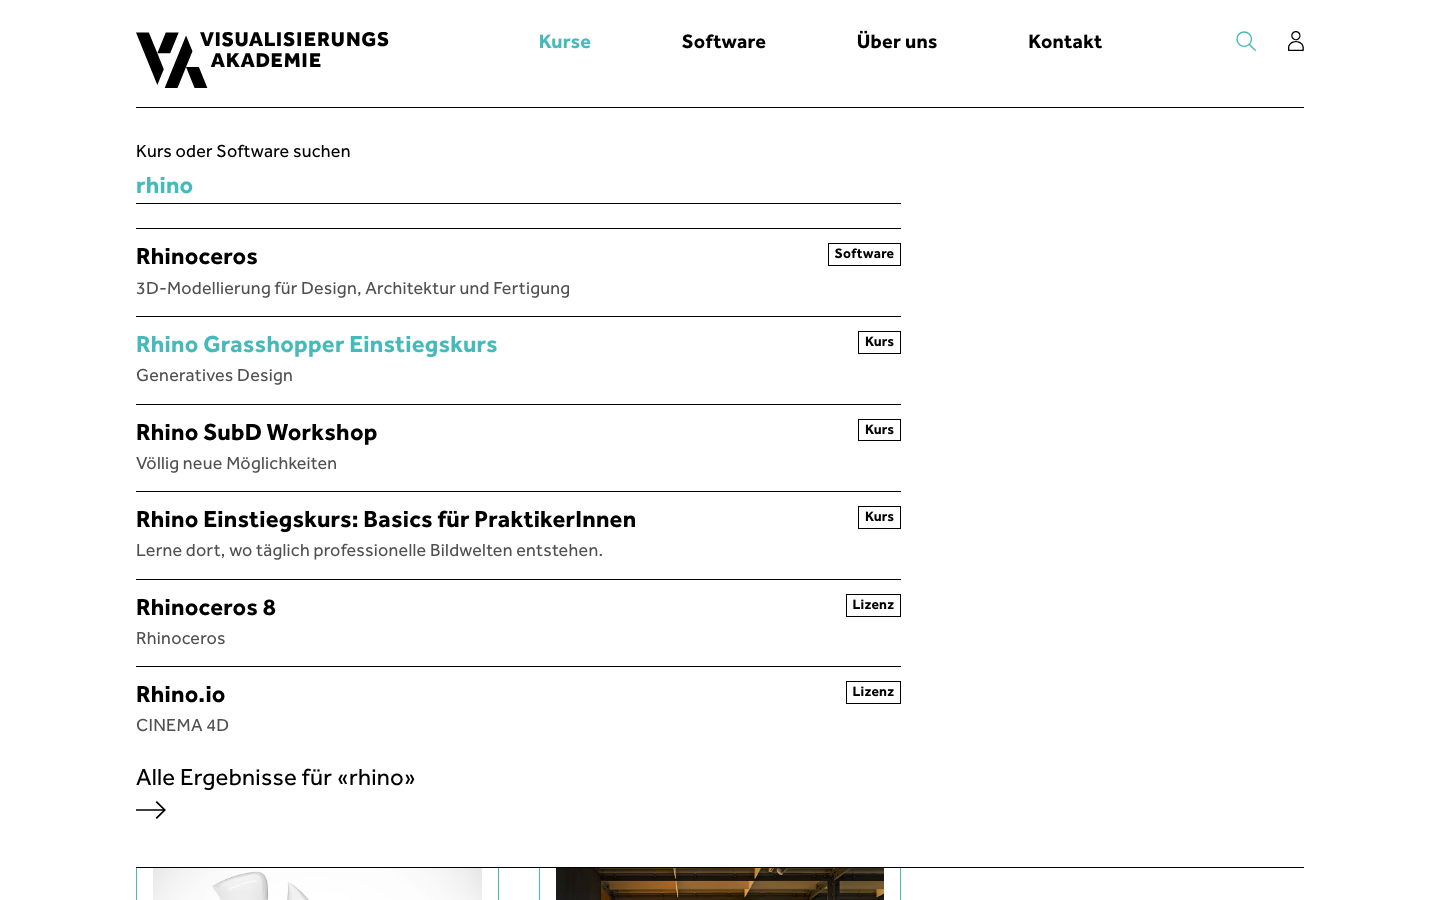
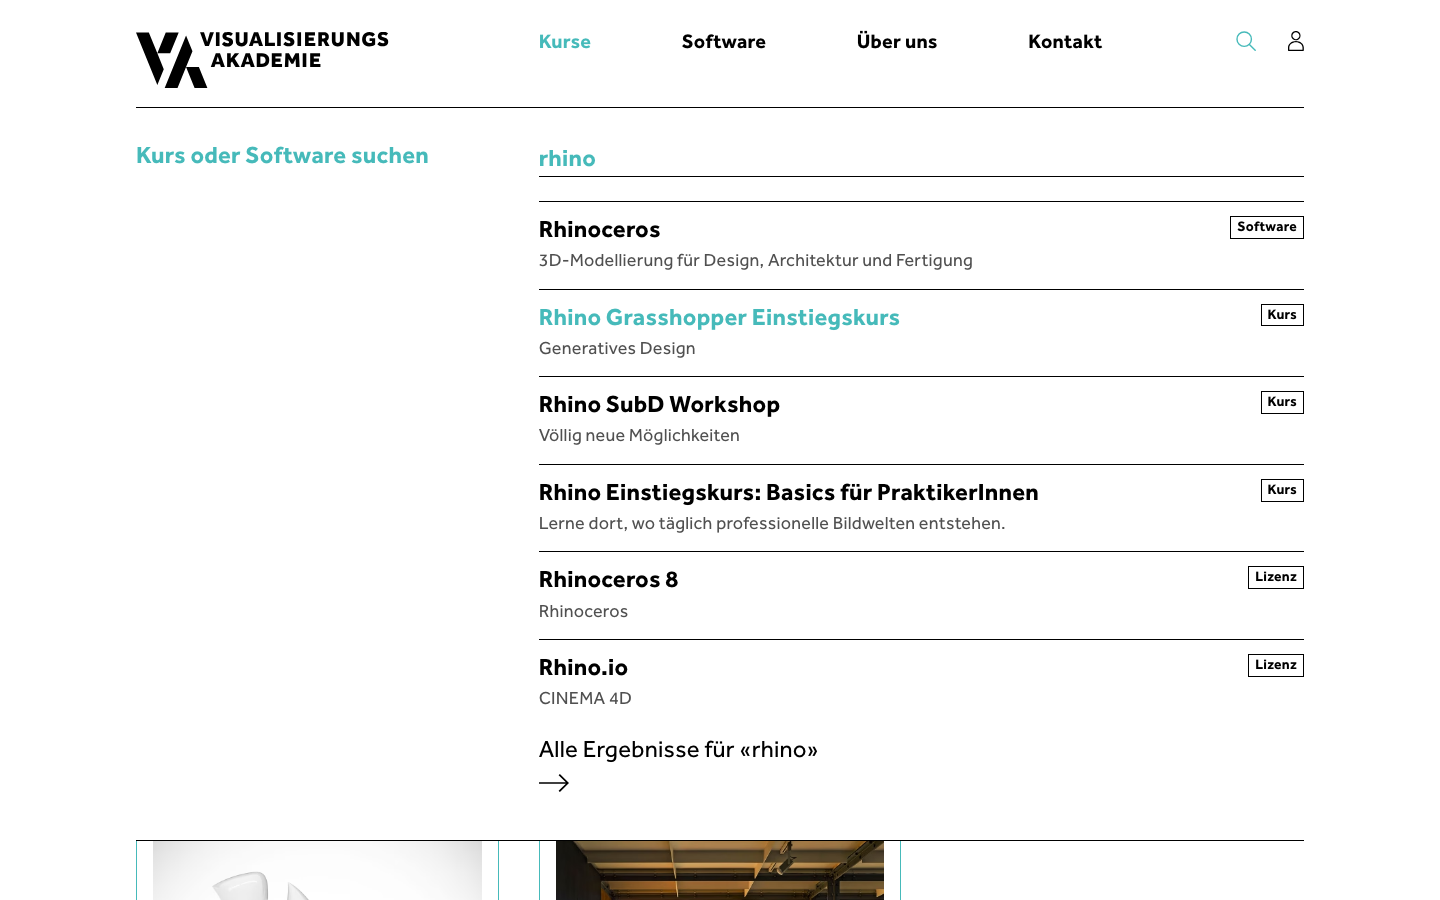
Search panel: laid out as Kontakt, the heading in the aside

diff --git a/resources/views/components/layout/header.blade.php b/resources/views/components/layout/header.blade.php
@@ -169,15 +169,17 @@
 		</div>
 		{{--
 			The search panel ([[15-search]]): white under the header's black rule,
-			its own rule at the bottom, the field in the first eight columns, flush
-			left with the logo (Marcel, 2026-10-26), the hits as the site's list rows. The field is a
+			its own rule at the bottom; Kontakt's two columns, the heading in the
+			aside and the field in the copy column, the hits as the site's list rows. The field is a
 			form field as everywhere on the site, bold teal on a black rule.
 			Enter opens the marked hit, or the result page.
 		--}}
 		<div x-show="open" x-cloak
 			class="absolute inset-x-0 top-full z-[150] mt-px grid grid-cols-12 gap-x-16 border-b border-black bg-white pt-24 pb-32 max-sm:hidden lg:gap-x-40 lg:pt-32 lg:pb-48">
+			{{-- As Kontakt has it: the heading bold teal in the aside, the field
+			     and its hits in the copy column (Marcel, 2026-10-26). --}}
+			<label for="site-search" class="col-span-4 font-bold text-teal">Kurs oder Software suchen</label>
 			<form class="col-span-8" role="search" action="{{ \App\Support\SiteUrl::search() }}" @submit.prevent="go()">
-				<label for="site-search" class="mb-4 block text-md sm:text-lg lg:text-xl">Kurs oder Software suchen</label>
 				<input id="site-search" x-ref="field" name="q" type="search" autocomplete="off" spellcheck="false"
 					x-model="query" @input="type()" @keydown.down.prevent="move(1)" @keydown.up.prevent="move(-1)"
 					role="combobox" aria-controls="site-search-hits" aria-autocomplete="list"

diff --git a/.rework/15-search.md b/.rework/15-search.md
@@ -113,10 +113,9 @@ nav. So the proposal uses the site's own pieces:
 - **A magnifier** beside the basket and the profile, drawn at their weight
   and sized as the profile icon is ([[icon.search]]).
 - **It opens a panel under the header's rule**: white, its own black rule
-  below, the field in the first eight columns, flush left with the logo
-  (Marcel, 2026-10-26), a form field
-  as everywhere on the site (bold teal on a black rule), labelled *Kurs oder
-  Software suchen*. Six hits as the site's list rows (title bold, the type as
+  below, laid out as Kontakt is (Marcel, 2026-10-26): *Kurs oder Software
+  suchen* bold teal in the aside, the field in the copy column, a form field
+  as everywhere on the site (bold teal on a black rule). Six hits as the site's list rows (title bold, the type as
   a badge on the right, the lead in grey), then *Alle Ergebnisse für «…»*
   with the site's arrow. *Nichts gefunden für «…»* when nothing is.
   Arrows move through the hits, Enter opens the marked one or the result
